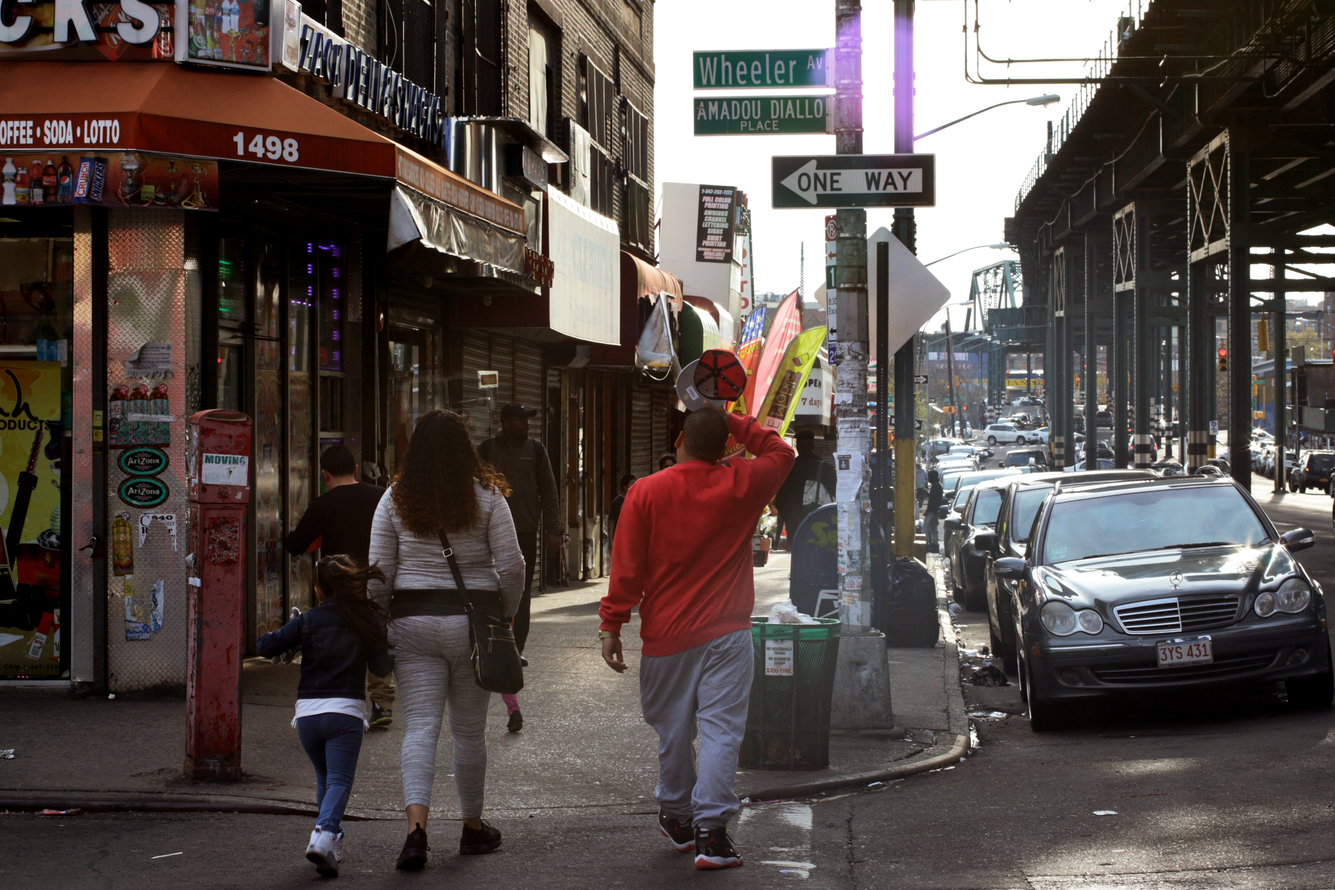
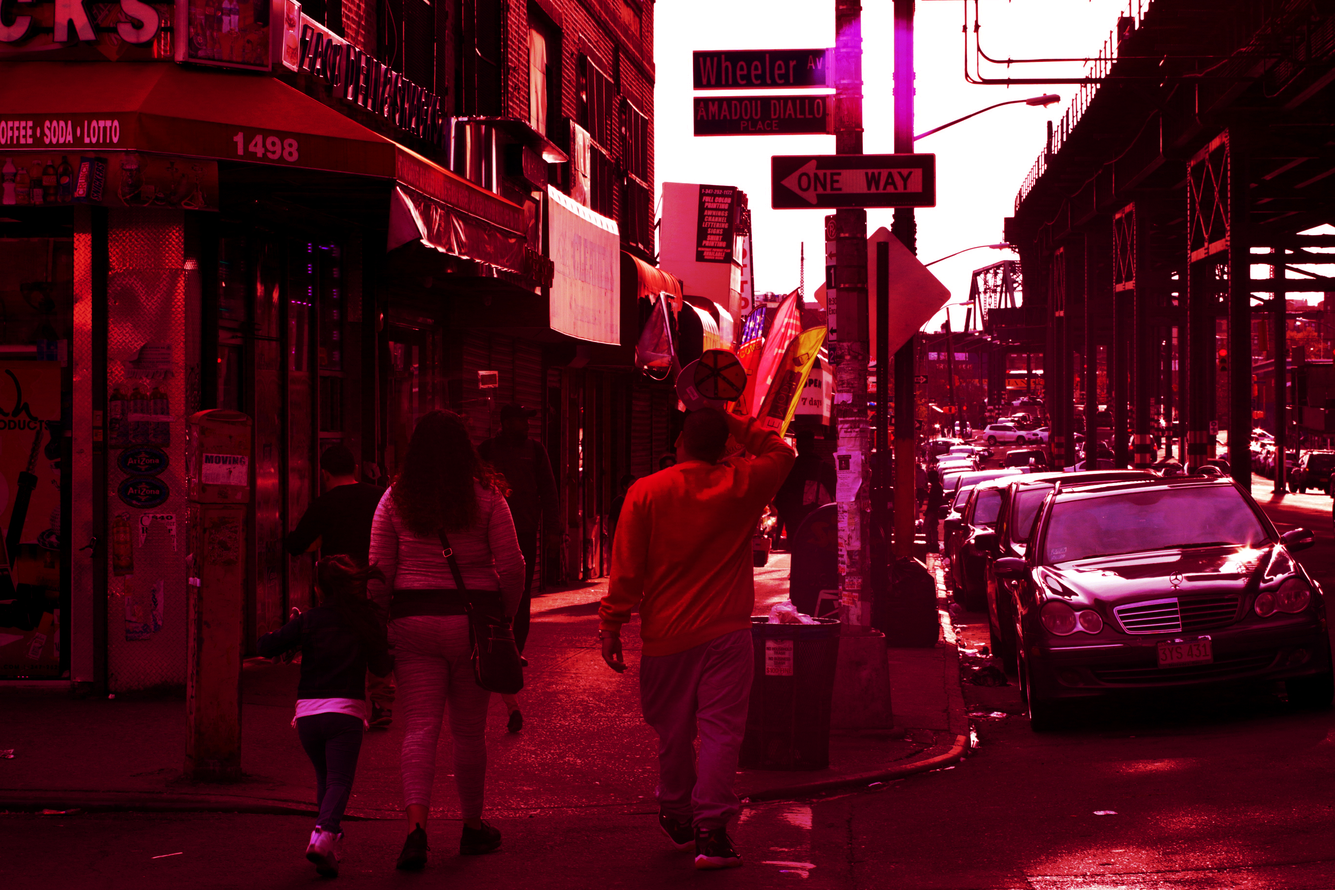
cambios en header texto
letra y foto

diff --git a/nota.html b/nota.html
@@ -27,7 +27,7 @@ Acá ponemos Meta tags. Los metatags son textos que los visitantes de tu sitio n
 <meta charset="utf-8">
 <meta http-equiv="X-UA-Compatible" content="IE=Edge">
 <meta name="viewport" content="width=device-width, initial-scale=1">
-<title>es el título del documento HTML completo, no su contenido. Es el meta tag que buscadores, navegadores y redes sociales leen y extraen.</title>
+<title>Prestamistas de Barrios</title>
 <meta name="author" content="Poner aquí nombre de autor">
 <meta name="description" content="Aquí va la descripción de la página o sitio web">
 <meta property="og:site_name" content="Reportajes finales de Craft 2 en Español"/>
@@ -47,16 +47,16 @@ Acá ponemos Meta tags. Los metatags son textos que los visitantes de tu sitio n
 
 <body class="nota">
 <!-- este es mi texto -->
-<header>
-<img src="assets/images/foto1.jpg" class="head-img">
+<div>
+    <img class= "head-img" src="assets/images/header-bronx.jpg">
 
-<h1>Alternantivas financieras de los barrios latinos</h1>
-<h2>Por Monica Cordero, Constanza Gallardo y Alma Sacasa</h2> 
+<h1 class="titulo">Alternantivas financieras de los barrios latinos</h1>
+<h2 class="byline">Por Monica Cordero, Constanza Gallardo y Alma Sacasa</h2> 
 <!--
     <p> El mundo de los préstamos ilegales mueve TK millones de dólares en Estados Unidos, gracias a que la banca no le da crédito a TK personas. Sin embargo, detrás del estereotipo común de las mafias de prestamistas, se esconde un submundo mucho más pedestre y común de vecinos de barrio, peluqueras y bodegas que otorgan préstamos informales a quienes no son sujetos de crédito en el mundo de las finanzas formales. </p>
 
-    <p>Incluir historia y ejemplos, falta de educación bancaria, bajos ingresos, cultura de préstamo de barrio, manejo informal de dinero,  TODOS LOS ELEMENTOS CENTRALES DEL REPORTAJE Y LA TESIS. LUEGO DE HACERLA AUNQUE SEA LARGUÍSIMA HACES UNA SEGUNDA VERSIÓN EN ORDEN CRONOLÓGICO DE PRINCIPIO A FIN.</p> -->
-</header> 
+    <p>Incluir historia y ejemplos, falta de educación bancaria, bajos ingresos, cultura de préstamo de barrio, manejo informal de dinero,  TODOS LOS ELEMENTOS CENTRALES DEL REPORTAJE Y LA TESIS. LUEGO DE HACERLA AUNQUE SEA LARGUÍSIMA HACES UNA SEGUDA VERSIÓN EN ORDEN CRONOLÓGICO DE PRINCIPIO A FIN.</p> -->
+</div>
 
 
 <nav class="menu">

diff --git a/assets/css/main.css b/assets/css/main.css
@@ -49,19 +49,35 @@ background-color: #F8F8FF;
 
 }
 
-h1{
-font-family: 'Circular', sans-serif;
+.titulo {
+font-family: 'Circular';
 font-size: 50px;
-
-}
-
-.nota section {
-
-}
-
-.video section {
+font-style: normal;
+font-weight: 800;
+color: white;
 
 } 
+
+.byline {
+font-family: "Circular";
+font-style: normal;
+font-weight: 200;
+color: white;
+}
+
+.head-img {
+  position: fixed;
+  top: 0;
+  left: 0;
+ 
+  min-height: 100%;
+  min-width: 1024px;
+
+  width: 100%;
+  height: auto;
+  z-index: -1;
+} 
+
 
 section iframe{
 display: block;
@@ -93,14 +109,6 @@ img {
     padding-bottom: 40px;
 }
 
-.head-img {
-  position: fixed;
-  top: 0;
-  left: 0;
-  width: 100%;
-  height: auto;
-  z-index: -1;
-} 
 
 .menu{ 
 position: absolute; 
@@ -115,16 +123,19 @@ nav ul {
 
 
 
-.header h1{
-  font-family: 'Montserrat', sans-serif;
-  font-size: 50px;
-}
 section {
  /* height: 100vh; */
   background-color: #F8F8FF;
+
 } 
 
+.nota section {
 
+}
+
+.video section {
+
+} 
 
 
 
